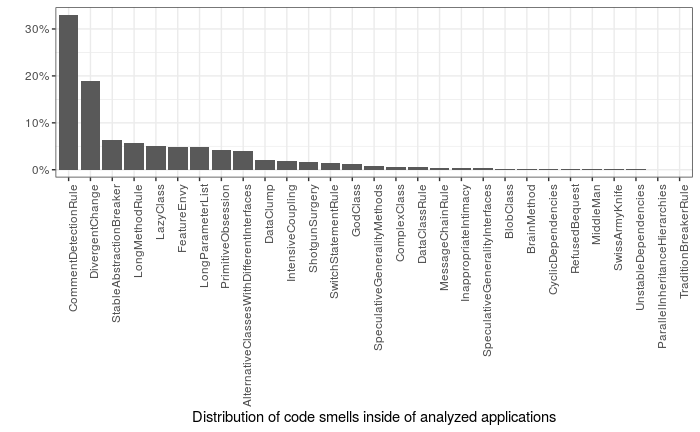
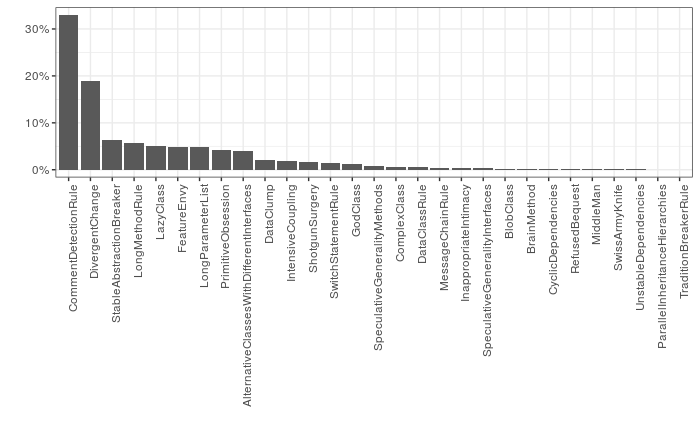
Add results section

Changed region(s): [[0.27, 0.9329, 0.81, 0.9931]]

diff --git a/analysis_results.tex b/analysis_results.tex
@@ -1,50 +1,163 @@
-\subsubsection{Project analysis}
 
 \TODO{
-    Describe the results that we got from project analysis.
-    Say how those compare to already existing results.
-    Distribution of code smells that are not yet published.
-    How many projects in corpus versus how many were actually successfully analyzed.
-    Statistics on code smell distributions inside analyzed applications.
+    How many applications analyzed?
+    How many lines (min, max avg)?
+    Why others didnt get analyzed?
 }
 
-As a result, we were able to analyze $X$ applications.
-This number is vastly different from the total amount of applications that are present in the corpus for multiple reasons.
+As the result, 193 applications were successfully analyzed.
+This number is vastly different from the total amount of applications (1509) that are present in the corpus for multiple reasons.
 Firstly, some of the projects were not using a build system (Gradle or Maven).
-This is an issue because to compile the project we would need to specify the classpath manually and
+This is an issue because to compile the project we would need to specify the Classpath manually and
 this is quite difficult to do programmatically.
 Moreover, even if we managed to compile the projects, SonarQube is provided as a plugin for the build systems which means
 that we would still not be able to run the analysis.
 Secondly, some of the projects required extra configuration before building, which is also not possible to do
 programmatically because each project is different and requires manual configuration.
 
-\subsubsection{Threshold analysis}
+The analysis was performed on a machine with \verb|Intel(R) Core(TM) i5-8250U CPU @ 1.60GHz| and 16GB of RAM\@.
+The statistics gathering for the thresholds took $441$ minutes in total with $2.24$ minutes on average per project.
+However, running a project with all of the rules for code smell detections took $565$ minutes with $2.93$ minutes on average per project.
+Note that this includes only the analysis itself and does not factor in the process of bulding and compiling the source
+application.
+
+In total, we analyzed $1450793$ lines of code.
+On average, each application had $6843.363$ lines of code with a median of $2982$ lines of code.
+The largest application contained $52358$ lines of code and the smallest application had $73$ lines of code.
+The total number of detected code smells is $160775$ which means that there are $0.11$ code smells on average per line of code.
 
 \TODO{
-We also performed threshold analysis in order to find most suitable values for certain code smells.
+    Threshold gathering and calculation.
+    Say the we collected thresholds two times, since first time we didn't exclude anonymous classes.
+    Provide both tables with anonymous classes and without.
+    Also show we calculated thresholds in the end.
+    Say that for those that are missing we didnt have time and did gather them.
+    We reused thresholds from Kristiinas' paper.
+}
+
+In section~\ref{subsec:analysis-procedure} we mentioned collecting the thresholds for some of the code smells.
+The main idea for calculating the thresholds for the corpus is that this way we can reduce
+the amount of false-positive detections and only detect the cases where the presence of the code smell is evident.
+
+Table~\ref{threshold_calculation_table} shows the statistics that were used to calculate the thresholds for the
+The first column shows the node type which was used to calculate the attribute.
+The second columns displays the attribute name that was calculated for the specific node.
+Columns $Q_1$, $Q_2$ and $Q_3$ display different quartiles for the collected values.
+
+As mentioned in section~\ref{subsec:analysis-procedure}, the statistics were gathered from the analyzed applications.
+In order to obtain the thresholds, we had to run the threshold collection 2 times, since during the first analysis
+we did not exclude the anonymous classes.
+We decided that anonymous classes should be excluded from the threshold collection since in Android applications
+anonymous classes are used for listeners and thus occur very often because listeners are used in order to react to
+user inputs and mobile applications are mostly about working with user input.
+
+\begin{table}
+    \begin{center}
+        \begin{tabular} {| c | c | c | c | c |}
+            \hline
+            \textbf{Location} & \textbf{Event type} & \textbf{$Q_1$} & \textbf{$Q_2$} & \textbf{$Q_3$} \\ \hline
+            Class & attributes & 1 & 2.0000000 & 5.000000 \\ \hline
+            Class & cohesion & -1 & -1.0000000 & 0.000000  \\ \hline
+            Class & comments & - & - & - \\ \hline
+            Class & complexity & 0 & 3.0000000 & 12.500000 \\ \hline
+            Class & complexityRatio & 0 & 0.8888889 & 2.467376 \\ \hline
+            Class & coupling & - & - & - \\ \hline
+            Class & instructions & 4 & 16.0000000 & 45.000000 \\ \hline
+            Class & methods & 1 & 3.0000000 & 7.000000 \\ \hline
+            Method & calls & - & - & - \\ \hline
+            Method & chainLength & 2 & 2.0000000 & 3.000000 \\ \hline
+            Method & complexity & 0 & 0.0000000 & 2.000000 \\ \hline
+            Method & instructions & 1 & 2.0000000 & 8.000000 \\ \hline
+            Method & parameters & 0 & 1.0000000 & 1.000000 \\ \hline
+            Method & switchStatements & 0 & 0.0000000 & 0.000000 \\ \hline
+            Interface & numberOfMethods & 1 & 1.0000000 & 2.000000 \\ \hline
+        \end{tabular}
+        \caption{\label{threshold_calculation_table}Values used for threshold calculation.}
+    \end{center}
+\end{table}
+
+As it can be seen, some of the values are missing from the table.
+Due to time constraints, we were not able to collect all of the required statistics for all of the code smells
+and since we were missing some of the values, we reused the values that were used by~\citeauthor{ios_code_smell_paper} in~\cite{ios_code_smell_paper}.
+
+The complete list of calculated thresholds can be seen in table~\ref{threshold_calculation_table}.
+This were the thresholds that were the used for code smell detection when retrieving the results.
+The column \say{Code smell name} displays the rule for which the threshold was calculated.
+The column \say{Variable} displays the variable for which the threshold was calculated in the rule.
+The column \say{Mapping from threshold table} displays the \say{Location} and \say{Event type} from table~\ref{threshold_calculation_table}
+that was used in order to calculate the value.
+The column \say{Formula} shows the formula that was used to calculate teh value.
+The column \say{Value} shows the final value that was used for \say{Variable} for the rule inside \say{Code smell name}.
+
+\begin{landscape}
+    \begin{table}
+        \begin{center}
+            \scalebox{0.9}{
+                \begin{tabular} {| c | c | c | c | c |}
+                    \hline
+                    \textbf{Code smell name} & \textbf{Variable} & \textbf{Mapping from threshold table} & \textbf{Formula} & \textbf{Value} \\ \hline
+                    Long method & veryHighNumberOfInstructions & Method: instructions & $Q_3 + (Q_3 - Q_1)*1.5$ & 18.5  \\ \hline
+                    Blob class & veryHighLackOfCohesionInMethods & Class: cohesion & $Q_3 + (Q_3 - Q_1)*1.5$ & 1.5  \\ \hline
+                    Blob class & veryHighNumberOfMethods & Class: methods & $Q_3 + (Q_3 - Q_1)*1.5$ & 16  \\ \hline
+                    Blob class & veryHighNumberOfAttributes & Class: attributes & $Q_3 + (Q_3 - Q_1)*1.5$ & 11  \\ \hline
+                    Shotgun surgery & veryHighNumberOfCallers & Method: calls & $Q_3 + (Q_3 - Q_1)*1.5$ & -  \\ \hline
+                    Switch statements & veryHighNumberOfSwitchStatements & Method: switchStatements & $Q_3 + (Q_3 - Q_1)*1.5$ & 0  \\ \hline
+                    Lazy class & mediumNumberOfInstructions & Class: instructions & $Q_2$ & 16  \\ \hline
+                    Lazy class & mediumCouplingBetweenObjectClasses & Class: coupling & $Q_2$ & -  \\ \hline
+                    Message chains & veryHighNumberOfChainedMessages & Method: chainLength & $Q_3 + (Q_3 - Q_1)*1.5$ & 4.5  \\ \hline
+                    Comments & veryHighNumberOfComments & Class: comments & $Q_3 + (Q_3 - Q_1)*1.5$ & -  \\ \hline
+                    Divergent change & veryHighNumberOfCalledMethods & - & $Q_3 + (Q_3 - Q_1)*1.5$ & -  \\ \hline
+                    Long parameter list & veryHighNumberOfParameters & Method: parameters & $Q_3 + (Q_3 - Q_1)*1.5$ & 2.5  \\ \hline
+                    Middle man & lowNumberOfInstructionsMethod & Method: instructions & $\max(Q_1 - (Q_3 - Q_1)*1.5, 0)$ & 0  \\ \hline
+                    Inappropriate intimacy & highNumberOfCallsBetweenClasses & - & $Q_3$ & -  \\ \hline
+                    Brain method & highNumberOfInstructionsForClass & Class: instructions & $Q_3$ & 45  \\ \hline
+                    Brain method & highCyclomaticComplexity & Method: complexity & $Q_3$ & 2  \\ \hline
+                    God class & veryHighWeightedMethodCount & Class: complexity & $Q_3 + (Q_3 - Q_1)*1.5$ & 6.16844  \\ \hline
+                    Primitive obsession &veryHighPrimitiveVariableUse & - & Q_3 + $(Q_3 - Q_1)*1.5$ & -  \\ \hline
+                    Complex class & veryHighClassComplexity & Class: complexity & $Q_3 + (Q_3 - Q_1)*1.5$ & 31.25  \\ \hline
+                    Swiss army knife & veryHighNumberOfMethods & Interface: numberOfMethods & $Q_3 + (Q_3 - Q_1)*1.5$ & 3.5 \\ \hline
+                \end{tabular}
+            }
+            \caption{\label{threshold_values_table}Calculated thresholds based on values from table~\ref{threshold_calculation_table}.}
+        \end{center}
+    \end{table}
+\end{landscape}
+
+\TODO{
+    Show results.
+    How many applications contained code smell X?
+    How do those code smells distribute inside analyzed applications?
 }
 
 \TODO{
-During threshold analysis, we decided to exclude anonymous classes.
-Why?
-Android platform does not support lambdas (until very recent versions),
-so in order to implement functionalities that are commonly implemented using lambdas,
-they use anonymous classes.
-Anonymous classes means that there are no attributes and usually only a single method, so
-statistics for some input parameters (such as class attribute and method count) might be skewed due
-to anonymous classes.
+    Need more input here.
+    What should I include here?
 }
 
-\subsubsection{Code smells distributions}
+Now that we have shown the general information about the analysis process and thresholds, we can finally go over
+the results that we found.
+Figure~\ref{fig:applicaitons_contain_x} shows the how many of the applications actually contain each code smell.
+
+\begin{figure}
+    \includegraphics[scale=0.8]{figures/applications_contains_x_2.png}
+    \caption{How many applications contain code smell $X$?}
+    \label{fig:applicaitons_contain_x}
+\end{figure}
+
+As one can see, there is a high number of code smells that are present in over $75\%$ of the applications.
+
+Figure~\ref{fig:distribution}, shows distribution of detected code smells inside analyzed applications.
+
+\begin{figure}
+    \includegraphics[scale=0.8]{figures/distribution_2.png}
+    \caption{Distribution of code smells inside the analyzed applications.}
+    \label{fig:distribution}
+\end{figure}
+
+\FloatBarrier
 
 \TODO{
-Currently 2 graphs:
-\begin{enumerate}
-    \item How many applications contain code smell X?
-    \item Distribution of detected code smells
-\end{enumerate}
+    Comments make up a big part of distribution.
+    Perhaps we should make a separate figure without comments included?
 }
 
-\TODO{
-We can include both results, before updating the thresholds and after?
-}

diff --git a/discussion.tex b/discussion.tex
@@ -1,15 +1,5 @@
-\subsection{Encountered problems}\label{subsec:encountered-problems}
 
-Previously we also mentioned that plugins are loaded into the SonarQube dynamically and that
-this plugin must be used with \verb|provided| scope when compiling the plugin.
-This means that only some of the packages are provided during the runtime and not all of the classes
-provided by the Sonar Java plugin can be used during the runtime.
-This is an issue, because the plugin itself provides a lot of utilities that could be reused inside
-the custom rules (for example cognitive complexity counter, lines of code counter).
-To overcome this limitation, we extracted those utilities into a separate package and included it in
-the compiled artifact of our plugin, so that we could use those tools during the analysis execution.
-
-\subsubsection{Potential usages}
+\subsection{Potential usages}\label{subsec:potential-usages}
 
 \TODO{
     In this section, we should describe how external users can use our tool.
@@ -19,7 +9,7 @@ the compiled artifact of our plugin, so that we could use those tools during the
     information about the projects.
 }
 
-\paragraph{Developers}
+\subsubsection{Developers}
 
 \TODO{
     Think of how this tool is useful for developers.
@@ -32,7 +22,7 @@ the compiled artifact of our plugin, so that we could use those tools during the
     and rule description and "ideas" on how to fix the bug in the rule description.
 }
 
-\paragraph{Project managers}
+\subsubsection{Project managers}
 
 \TODO{
     Project managers can see the overview of the project and how
@@ -41,7 +31,7 @@ the compiled artifact of our plugin, so that we could use those tools during the
     Here we can show general view of the project (the dashboard).
 }
 
-\paragraph{Data scientists}
+\subsubsection{Data scientists}
 
 \TODO{
     How can the data scientists use this?

diff --git a/dev_results.tex b/dev_results.tex
@@ -124,8 +124,6 @@ For sensor rules, SonarQube delegates the whole project and then the sensor perf
 files for all sensor rules.
 
 \begin{figure}[ht]
-    \floatstyle{plain}
-    \restylefloat{figure}
     \begin{center}
         \includegraphics[scale=0.7]{figures/architecture_diagram.png}
         \caption{High level architecture of Sonar Academic Java Plugin.}
@@ -147,7 +145,8 @@ that are required for the correct operation and rule registration inside SonarQu
 
 As the code smells described by~\citeauthor{refactoring-fowler} are quite abstract, we needed
 a more concrete definitions in order to implement the code smells.
-In this paper, code smells are defined as Neo4j queries.
+In order to get more concrete implementation of the code smells we used the paper by~\citeauthor{ios_code_smell_paper}.
+In~\cite{ios_code_smell_paper}, code smells are defined as Neo4j queries.
 However, SonarQube uses different pattern for code smell detection.
 
 In SonarQube, code smells are detected by applying visitor pattern~\cite{visitor_pattern} on the parsed

diff --git a/masters-thesis-template.tex b/masters-thesis-template.tex
@@ -16,6 +16,7 @@
 
 % A package for setting layout and margins for your thesis
 \usepackage[a4paper]{geometry}
+\usepackage{pdflscape}
 
 %%=== A4 page setup ===
 %\setlength{\paperwidth}{21.0cm}
